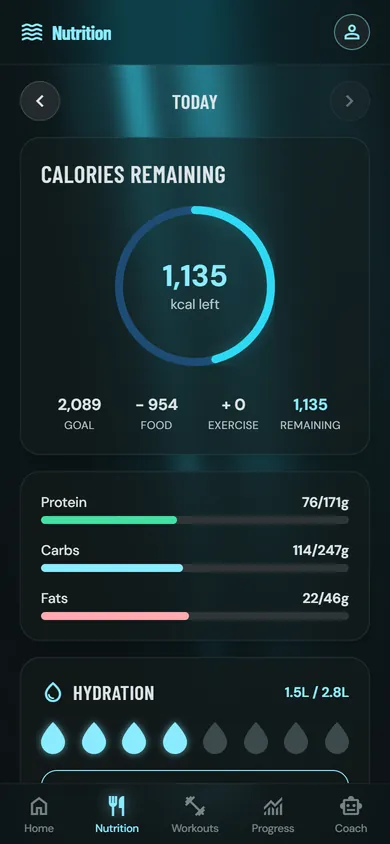
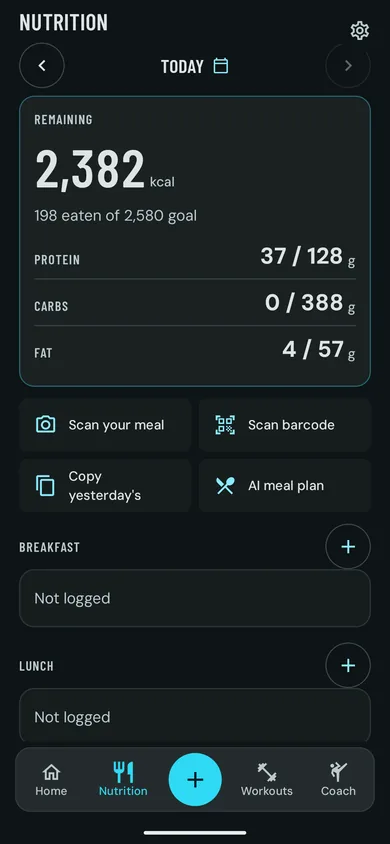
Show the redesigned Android app on the landing pages
The gallery and How it works showed August browser captures of the old
look: an aurora behind a calorie ring and gradient buttons, in a phone frame
with an aqua glow. They now show captures of the redesigned Android app (the
one on Google Play), with the status bar cropped off, alt text that describes
what is on each screen, and copy that says where they came from. The meal
plan capture is replaced by a recipe: the test account was out of AI credits,
and an empty plan is not worth showing. The device frame is a plain bezel.

Sub-page headlines wrapped wider in the fallback font while Barlow Condensed
loaded, which shifted /aqua-coach by 0.33 at 390px. A size-adjusted local
fallback face, measured from both fonts' advance widths, wraps where the
real face will; the render audit now reads 0.003.

diff --git a/apps/web/src/pages/landing/LandingSections.tsx b/apps/web/src/pages/landing/LandingSections.tsx
@@ -50,37 +50,37 @@ const SCREENS = [
     id: 'dashboard',
     title: 'Today at a glance',
     caption: 'Calories remaining, macro split and hydration, all computed from your own figures.',
-    alt: 'Dashboard: 1,135 kcal left on a progress ring, protein, carbs and fat against target, and hydration logged in 250 ml steps.',
+    alt: 'Today: 2,382 kcal left as the lead figure, protein, carbs and fat against target as ruled rows, and the day’s checklist of meals, workout and water.',
   },
   {
     id: 'nutrition',
     title: 'Per-meal logging',
     caption: 'A searchable food corpus, barcode scanning and day navigation, meal by meal.',
-    alt: 'Nutrition day view: a calorie ring, macro targets and each meal of the day listed with its entries.',
+    alt: 'Nutrition day view: 2,382 kcal remaining of a 2,580 goal, macros against target, quick actions to scan a meal or barcode, and each meal of the day.',
   },
   {
     id: 'coach',
     title: 'A coach that knows your day',
     caption: 'Grounded in what you have logged, with the wellness boundary always on screen.',
-    alt: "Aqua Coach: a reply quoting today's logged calories, protein, carbs, fat and water, above the persistent wellness disclaimer.",
+    alt: 'Coach chat with Akin: advice on easing into a recovery jog, under the persistent wellness disclaimer.',
   },
   {
-    id: 'meal-plan',
-    title: 'Plans matched to your targets',
-    caption: 'Generated against your calorie and macro targets, with allergens excluded first.',
-    alt: 'An AI meal plan laid out against the day’s calorie and macro targets.',
+    id: 'recipe',
+    title: 'Recipes you can log as cooked',
+    caption: 'Per-serving calories and macros, allergens called out, and the full method cached for offline reading.',
+    alt: 'Recipe: avocado and egg sourdough toast at 440 kcal per serving with protein, carbs and fat, an allergen note, a servings stepper and the ingredient list.',
   },
   {
     id: 'workouts',
     title: 'Training that fits your kit',
     caption: 'An openly licensed exercise corpus, filtered to the equipment you actually own.',
-    alt: 'Workout library: the training week, a rest-day card, and the exercise library filtered by type, muscle and equipment.',
+    alt: 'Workouts: today’s full-body strength session with its exercises and a start button, the training week, and the exercise library.',
   },
   {
     id: 'progress',
     title: 'Progress over 7, 30 and 90 days',
     caption: 'Weight journey and calorie trend, so a single heavy day reads as a single day.',
-    alt: 'Progress view: current weight, change since start, a weight journey chart against goal, and a calorie trend bar chart.',
+    alt: 'Progress: current weight 80.0 kg as the lead figure, change since start, and the 28-day consistency window.',
   },
 ];
 
@@ -113,8 +113,8 @@ export function Gallery() {
               Real screens from the running app.
             </h2>
             <p className={LEAD}>
-              Captured signed in as the seeded demo account. Every number on them came out of the
-              same code you would be using.
+              Captured from the Android app, signed in to a test account. Every number on them came
+              out of the same code you would be using.
             </p>
           </Reveal>
 

diff --git a/apps/web/src/pages/landing/PhoneShowcase.tsx b/apps/web/src/pages/landing/PhoneShowcase.tsx
@@ -3,8 +3,9 @@ import { fetchPriorityHigh } from '@/lib/fetchPriority';
 /**
  * Device frame for the real screen captures.
  *
- * The screen is a real capture of the running application (docs/screenshots,
- * re-encoded to WebP in public/screenshots) rather than markup imitating it.
+ * The screen is a real capture of the running application, re-encoded to WebP
+ * in public/screenshots, rather than markup imitating it. Most are Android
+ * captures with the OS status bar cropped off.
  * A hand-built replica drifts from the product the moment either changes —
  * ours already had, within an hour of being written — and a landing page whose
  * "screenshots" are drawings is exactly the tell we are trying to avoid.
@@ -27,12 +28,10 @@ export function DeviceFrame({
 }) {
   return (
     <div
-      className={`relative rounded-[42px] border border-white/10 bg-[#0b1113] p-2.5 shadow-[0_60px_120px_-40px_rgba(0,0,0,0.95),0_0_80px_-40px_rgba(47,217,244,0.5)] ${className}`}
+      // A plain bezel: the screen is the subject, so no glow or sheen competes
+      // with it (docs/design.md).
+      className={`relative rounded-[42px] border border-outline-variant/60 bg-surface-container-lowest p-2.5 ${className}`}
     >
-      <div
-        className="pointer-events-none absolute inset-0 rounded-[42px] bg-gradient-to-br from-white/12 via-transparent to-transparent"
-        aria-hidden="true"
-      />
       <div className="relative overflow-hidden rounded-[34px] bg-surface-container-lowest">
         <img
           src={`/screenshots/${id}.webp`}
@@ -48,8 +47,8 @@ export function DeviceFrame({
           decoding="async"
           className="block h-auto w-full"
         />
-        {/* No drawn notch: these are browser captures with no OS status bar, so
-            a fake one would land on top of the app's own header. */}
+        {/* No drawn notch: the captures carry no status bar, so a fake one
+            would land on top of the app's own header. */}
       </div>
     </div>
   );

diff --git a/apps/web/src/pages/landing/screenshots.test.ts b/apps/web/src/pages/landing/screenshots.test.ts
@@ -1,0 +1,41 @@
+/**
+ * The marketing pages show real captures of the app, served from
+ * public/screenshots at 1x and 2x. A renamed or deleted capture fails here
+ * instead of shipping a broken image to the landing page.
+ *
+ * The heading face also keeps its metric-matched fallback: without it the
+ * sub-page headlines wrapped wider while Barlow Condensed loaded and shifted
+ * the page when it arrived.
+ */
+import { existsSync, readFileSync } from 'node:fs';
+import { fileURLToPath } from 'node:url';
+import { describe, expect, it } from 'vitest';
+
+const here = (relative: string) => fileURLToPath(new URL(relative, import.meta.url));
+const source = (file: string) => readFileSync(here(file), 'utf8');
+
+const galleryIds = [...source('./LandingSections.tsx').matchAll(/^\s+id: '([a-z-]+)',$/gm)].map((m) => m[1]);
+const stepIds = [...source('./HowItWorks.tsx').matchAll(/screenshot: '([a-z-]+)'/g)].map((m) => m[1]);
+
+describe('landing screenshots', () => {
+  it('finds the six gallery captures and the how-it-works captures', () => {
+    expect(galleryIds).toHaveLength(6);
+    expect(stepIds.length).toBeGreaterThan(0);
+  });
+
+  it.each([...new Set([...galleryIds, ...stepIds])])('%s exists at 1x and 2x', (id) => {
+    expect(existsSync(here(`../../../public/screenshots/${id}.webp`))).toBe(true);
+    expect(existsSync(here(`../../../public/screenshots/${id}@2x.webp`))).toBe(true);
+  });
+});
+
+describe('heading font fallback', () => {
+  it('declares a size-adjusted stand-in and lists it before the generic family', () => {
+    expect(source('../../styles/index.css')).toMatch(
+      /font-family: 'Barlow Condensed Fallback';[\s\S]*?size-adjust: 74\.4%;/,
+    );
+    expect(source('../../../tailwind.config.js')).toContain(
+      `heading: ['"Barlow Condensed"', '"Barlow Condensed Fallback"', 'sans-serif']`,
+    );
+  });
+});

diff --git a/apps/web/src/styles/index.css b/apps/web/src/styles/index.css
@@ -2,6 +2,20 @@
 @tailwind components;
 @tailwind utilities;
 
+/* Metric-matched stand-in for Barlow Condensed while the web font loads.
+   The fonts load asynchronously, and a full-width fallback wrapped sub-page
+   headlines onto extra lines, then shifted the page when Barlow arrived
+   (CLS 0.33 on /aqua-coach at 390px). Headings are SemiBold, which falls back
+   to the bold face; Barlow Condensed SemiBold sets text at 0.744 of Arial
+   Bold's width (measured from both fonts' advance widths), so the stand-in
+   wraps where the real face will. */
+@font-face {
+  font-family: 'Barlow Condensed Fallback';
+  src: local('Arial Bold'), local('Arial-BoldMT'), local('Roboto Bold'), local('Roboto-Bold');
+  font-weight: 600 800;
+  size-adjust: 74.4%;
+}
+
 /* ====================================================================
    Design tokens - the single binding point for the palette.
 

diff --git a/apps/web/src/pages/landing/HowItWorks.tsx b/apps/web/src/pages/landing/HowItWorks.tsx
@@ -75,8 +75,8 @@ const STEPS: StepSpec[] = [
       'Runs a deterministic allergen filter after generation, tuned to reject anything it cannot prove safe rather than risk a miss.',
       'Leaves the arithmetic where it belongs: the totals you see are computed, not narrated.',
     ],
-    screenshot: 'meal-plan',
-    alt: 'A generated meal plan laid out against the day’s calorie and macro targets.',
+    screenshot: 'recipe',
+    alt: 'A recipe from the plan: per-serving calories and macros, an allergen note and a servings stepper.',
   },
   {
     id: 'train',

diff --git a/apps/web/tailwind.config.js b/apps/web/tailwind.config.js
@@ -72,7 +72,7 @@ export default {
         coral: 'rgb(var(--azf-coral) / <alpha-value>)',
       },
       fontFamily: {
-        heading: ['"Barlow Condensed"', 'sans-serif'],
+        heading: ['"Barlow Condensed"', '"Barlow Condensed Fallback"', 'sans-serif'],
         body: ['"DM Sans"', 'sans-serif'],
       },
       borderRadius: {
